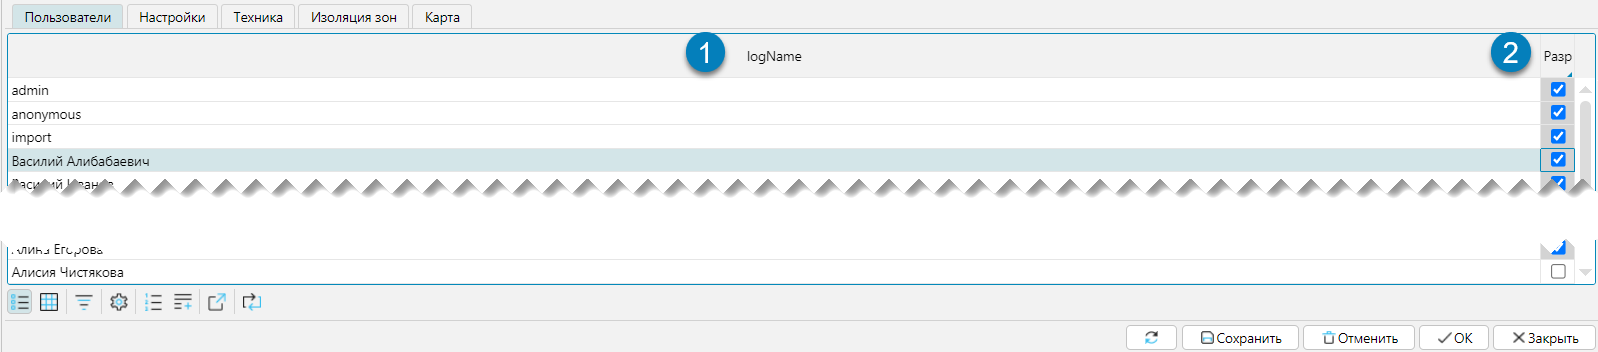
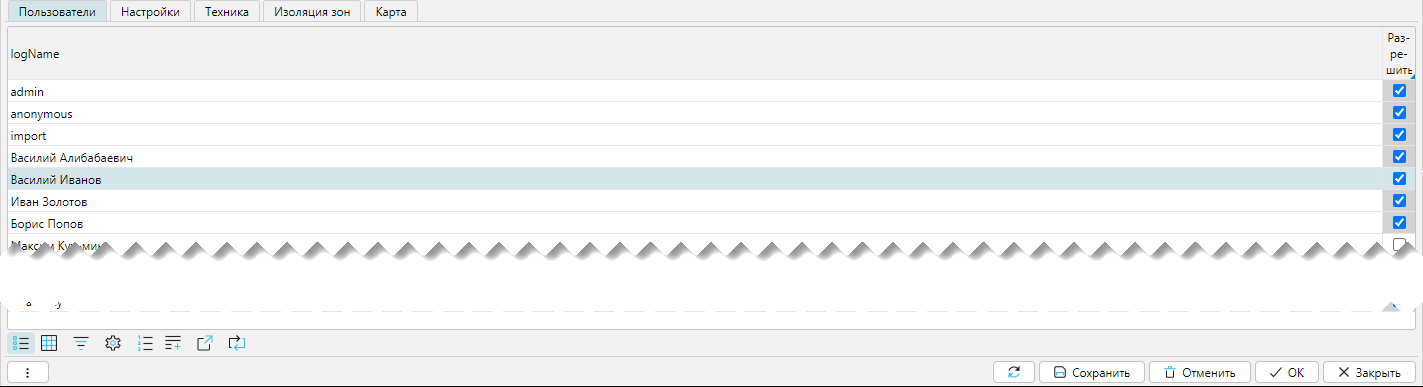
Документация

Changed region(s): [[0.0, 0.0, 1.0, 0.9375], [0.6803, 0.9062, 1.0, 1.0], [0.0, 0.9688, 0.0618, 1.0]]

diff --git a/sidebars.js b/sidebars.js
@@ -34,7 +34,7 @@ module.exports = {
         {
             type: 'category', label: 'Управление топологией', link: {type: 'doc', id: 'topology/topology'},
              items: [
-                 'topology/stocks','topology/segments',
+                 'topology/stocks','topology/segments','topology/topologyeditor',
              ],
         },
         {

diff --git a/docs/topology/stocks.md b/docs/topology/stocks.md
@@ -5,74 +5,81 @@ title: 'Справочник склады'
 Справочник складов — это инструмент, который содержит информацию о всех складах, доступных в системе. Играет ключевую
 роль в управлении складскими операциями и обеспечивает структурированный подход к работе.
 
-Справочник склады доступен из меню **Склад-Справочники-Склады**(рис. 1) или **Справочники-Склады**.<br/>
-Справочник может как импортироваться из внешней системы, так и создаваться и редактироваться в lsFusion WMS.
+Справочник склады доступен из меню **Склад-Справочники-Склады** (рис. 1) или **Справочники-Склады**. Справочник 
+может как импортироваться из внешней системы, так и создаваться и редактироваться в lsFusion WMS.  
 
 ## Отображение справочника
 
 ![](img/stocks1.png)<br/>
-Рис. 1 Форма отображения справочника
+_Рис. 1 Форма отображения справочника_
 
-Справочник представлен на форме с вкладками в виде иерархической структуры (вкладка Дерево, Рис. 1(1)) или списка (
-вкладка Список, Рис. 1(2)).<br/>
+Справочник представлен на форме (Рис. 1) с вкладками:
+- **Дерево** - в виде иерархической структуры 
+- **Список** - в виде списка  
 
-## Редактирование справочника
+
+## Редактирование склада
 
 ![](img/stocks2.png)<br/>
-Рис. 2 Форма редактирования справочника
+_Рис. 2 Форма редактирования склада_
 
-На форме можно выделить общие элементы для редактирования (Рис. 2(1)) и вкладки (Рис. 2(2)), которые являются
-дополнительными параметрами настройки.
-
+Форма содержит основные элементы для редактирования и вкладки, предназначенные для настройки дополнительных параметров:
 - **Название** - название склада
-- **Код** - код склада. Введенное значение будет использоваться, как первый символ(ы) в наименовании ячейки
+- **Код** - код склада. Значение кода используется, как символ(ы) начала кода элементов структуры склада при 
+  построении топологии. Значение должно быть уникальным по отношению ко всем вводимым складам  
 - **Родитель** - родительская категория, на один уровень выше текущей в иерархии
+
 
 ### Вкладка Пользователи
 
 ![](img/stocks3.png)<br/>
-Рис. 3 Вкладка Пользователи
+_Рис. 3 Вкладка Пользователи_
 
-Содержание табличной части отражает всех зарегистрированных пользователей в системе:
-
-1. колонка **logName** - это зарегистрированное имя пользователя (Рис. 3(1))
-2. колонка **Разрешить** - это флаг разрешения для пользователя работать с текущим складом (Рис. 3(2)). Так как склады
-   представляют собой иерархическую структуру, то разрешения данные на уровень выше, не могут быть изменены на текущем
-   уровне.
+Содержание табличной части отражает всех зарегистрированных пользователей в системе. Колонки табличной части:
+- **logName** - зарегистрированное имя пользователя
+- **Разрешить** - флажок устанавливает разрешение пользователю для работы с текущим складом. Так как склады 
+  представляют собой иерархическую структуру, то разрешения данные на уровень выше, не могут быть изменены на 
+  текущем уровне. 
 ***
 
+
 ### Вкладка Настройки
+Вкладка содержит настройки технологических операций
 
 ![](img/stocks4.png)<br/>
-Рис. 4 Вкладка настройки
+_Рис. 4 Вкладка настройки_
 
-Присутствует сильная зависимость от настроек технологических операций на текущем складе.<br/>
-_Содержание раздел находится в разработке_
+Настройки технологических операций:
+- Вид приемки
+- Отгрузка
+- Размещения
+- Перемещения
+- Подбор
 
 [//]: # (todo - требует более детального уточнения, нужны будут потом ссылки на технологические операции Сотрудники_Склады.mp4, 0:50:32)
 ***
 
+
 ### Вкладка Техника
 Вкладка отвечает за закрепление техники за складом, что необходимо для планировании задач
 ![](img/stocks5.png)<br/>
-Рис. 5 Вкладка Техника
+_Рис. 5 Вкладка Техника_
 
-**Приоритет технике** (Рис. 5(1)) означает следующее: 
-
-- если флаг установлен, то при планировании задач в первую очередь распределяются задачи для техники, а затем для
-  сотрудников
-- если флаг не установлен, то при планировании задач в первую очередь распределяются задачи для сотрудников, а затем для
-  техники
-
-Для назначения техники складу используется колонка **Вкл** (Рис. 5(2)). Техника может быть закреплена как
-непосредственно на текущем складе, так и на уровнях выше текущего склада. Для этой цели используется специальный формат
-отображения данных, позволяющий визуально различать варианты закрепления техники (Рис. 5(3), порядок отображения сверху
-вниз):
-- если техника не закреплена, информация об этом отображается неактивным серым цветом 
-- если техника закреплена на уровне выше текущего склада, информация об этом отображается неактивным серым цветом. При
-  этом отменить такое закрепление на уровне текущего склада нельзя
-- если техника закреплена на уровне текущего склада, информация об этом отображается активным черным цветом
+Элементы управления:
+- **Приоритет технике** - флажок отвечает за распределение задач: 
+  - если флаг установлен, то при планировании задач в первую очередь распределяются задачи для техники, а затем для
+    сотрудников
+  - если флаг не установлен, то при планировании задач в первую очередь распределяются задачи для сотрудников, а 
+    затем для техники
+- **Вкл** - колонка отвечает за закрепление техники за складом. Техника может быть закреплена как, непосредственно 
+  на текущем складе, так и на уровнях выше текущего склада. Для этой цели используется специальный формат 
+  отображения данных, позволяющий визуально различать варианты закрепления техники:
+  - если техника не закреплена, информация об этом отображается неактивным серым цветом 
+  - если техника закреплена на уровне выше текущего склада, информация об этом отображается неактивным серым цветом. 
+    При этом отменить такое закрепление на уровне текущего склада нельзя
+  - если техника закреплена на уровне текущего склада, информация об этом отображается активным черным цветом
 ***
+
 
 ### Вкладка Изоляция зон
 Вкладка определяет изолированные зоны
@@ -80,16 +87,16 @@ _Содержание раздел находится в разработке_
 Рис. 6 Вкладка Изоляция зон
 
 Использует алгоритмы нахождения кратчайших путей между изолированными зонами для эффективного формирования задач по
-размещению с учетом неоднородности складских помещений.<br/>
-_Содержание раздела находится в разработке_
+размещению с учетом неоднородности складских помещений.
 
 [//]: # (todo - раздел требует доработки)
 ***
 
+
 ### Вкладка Карта
 Показывает положение объекта (склада)
 ![](img/stocks7.png)<br/>
-Рис. 7 Вкладка Карта
+_Рис. 7 Вкладка Карта_
 
 - **Адрес** - адрес торгового объекта (склада), координата меняется при перемещении объекта
 - **Широта, Долгота** - географические координаты, координата меняется при перемещении объекта
@@ -97,8 +104,8 @@ _Содержание раздела находится в разработке_
   автоматически в точку на карте  
 
 <info>
-**Примечание**
-- Вкладка Карта доступна если подключен модуль **Транспорт**
+**Примечания:**
+- Вкладка Карта доступна, если подключен модуль **Транспорт**
 - Местоположение объекта также показывается на карте в маршрутах
 - Расчет координат по адресу работает, если подключена услуга API Keys Google (платно)
 </info>

diff --git a/docs/topology/segments.md b/docs/topology/segments.md
@@ -2,29 +2,41 @@
 title: 'Справочник сегменты склада'
 ---
 
-Справочник предназначен для определения зон внутри склада, которые необходимы для оптимизации хранения и управления товарами.
+Справочник сегментов задаёт структуру-шаблон построения топологии склада, определяет наименования, состав и 
+взаимосвязи, входящих в структуру элементов.    
 
-Справочник сегменты склада доступен из меню **Склад-Справочники-Сегменты склада** (рис. 1).<br/>
-Справочник может как импортироваться из внешней системы, так и создаваться и редактироваться в lsFusion WMS.
+Справочник сегменты склада доступен из меню **Склад-Справочники-Сегменты склада** (рис. 1).
+
+[//]: # (todo - уточнить насчет импорта из внешней системы, скорее всего что нет)
 
 ## Отображение справочника
 Справочник представлен на форме в виде иерархической структуры (Рис. 1).
 
 ![](img/segments1.png)<br/>
-Рис. 1 Форма отображения справочника
+_Рис. 1 Форма отображения справочника_
 
 
-## Редактирование справочника
+## Редактирование сегмента
 ![](img/segments2.png)<br/>
-Рис. 2 Форма редактирования справочника
+_Рис. 2 Форма редактирования сегмента_
 
 Описание элементов ввода:
-- **Ячейка** - признак, указывающий, что текущий сегмент является базовой (минимальной) единицей складской структуры
-- **Вспомогательная зона** - признак, указывающий, что текущий сегмент не используется непосредственно в складских
-  операциях
+- **Ячейка** - признак, указывающий, что текущий сегмент является базовой (минимальной) единицей складской структуры,
+  которая участвует в планировании при выполнении складских операций и используется для размещения товаров 
+- **Вспомогательный сегмент** - признак, указывающий, что текущий сегмент не участвует в планировании при 
+  выполнении складских операций. Используется для выделения каких то зон (ворота, колонны, подсобные помещения и т.д.),
+  которые не могут служить для размещения товара
 - **Наименование** - наименование сегмента
 - **Родитель** - родительская категория, на один уровень выше текущей в иерархии
-- **Префикс, Количество символов, Постфикс** - это элементы уникального кода сегмента склада, который является составной
-  частью штрихкода адреса хранения
-- **Разворачивать** - если отмечено, то при открытии формы **Топология** элементы данного уровня будут автоматически
-  развернуты в иерархии склада 
+- **Префикс** - символ(ы) с которых начинается уникальный кода сегмента 
+- **Количество символов** - количество символов, отводимых под порядковый номер внутри кода сегмента
+- **Постфикс** - символ(ы) которыми завершается код сегмента 
+- **Разворачивать** - если отмечено, то при открытии формы [**Топология**](topologyeditor.md) элементы данного 
+  уровня будут автоматически развернуты в топологии склада 
+
+<info>
+  **Примечания:**
+  - Система не ограничивает количество уровней в топологии, что позволяет описывать любые структуры
+  - Какой то особой привязки к наименованию сегментов не существует, что делает систему универсальной при выборе 
+    наименований для сегментов от сложившихся в WMS названий до специфичных
+</info>

diff --git a/docs/note/task.md b/docs/note/task.md
@@ -26,8 +26,3 @@ title: 'Задачи и материалы'
 ## Ссылки на материалы
 - [Материалы презентаций клиентам, Redmine](http://support.luxsoft.by/projects/lswms/wiki/%D0%9C%D0%B0%D1%82%D0%B5%D1%80%D0%B8%D0%B0%D0%BB%D1%8B_%D0%BF%D1%80%D0%B5%D0%B7%D0%B5%D0%BD%D1%82%D0%B0%D1%86%D0%B8%D0%B9)
 - [Функционал системы, в тч обсуждения, Redmine](http://support.luxsoft.by/projects/lswms/wiki/%D0%92%D0%B8%D0%B4%D0%B5%D0%BE_%D0%BF%D0%BE_%D1%84%D1%83%D0%BD%D0%BA%D1%86%D0%B8%D0%BE%D0%BD%D0%B0%D0%BB%D1%83)
-- [Расширенная приемка с сортировкой](https://photos.onedrive.com/share/8ABE145E7F833839!s3863dd85efc040f091753d33119d830a?cid=8ABE145E7F833839&resId=8ABE145E7F833839!s3863dd85efc040f091753d33119d830a&ithint=video&e=TO2tci&migratedtospo=true&redeem=aHR0cHM6Ly8xZHJ2Lm1zL3YvYy84YWJlMTQ1ZTdmODMzODM5L0VZWGRZempBN19CQWtYVTlNeEdkZ3dvQnZUVm1PdW5RLVdPMzh3ODZCWmhzNlE_ZT1UTzJ0Y2k)
-- [Презентация Доброном](https://photos.onedrive.com/share/8ABE145E7F833839!s3e09d15774414c5781bd48d931407262?cid=8ABE145E7F833839&resId=8ABE145E7F833839!s3e09d15774414c5781bd48d931407262&ithint=video&e=xEaqpz&migratedtospo=true&redeem=aHR0cHM6Ly8xZHJ2Lm1zL3YvYy84YWJlMTQ1ZTdmODMzODM5L0VWZlJDVDVCZEZkTWdiMUkyVEZBY21JQk9BdU5JUWpiNGQzTkptblE4UVNXR2c_ZT14RWFxcHo)
-- [Инвентаризация товара с ТСД](https://photos.onedrive.com/share/8ABE145E7F833839!sb65e1e162c634bdf9c7d8b581ba8b8a7?cid=8ABE145E7F833839&resId=8ABE145E7F833839!sb65e1e162c634bdf9c7d8b581ba8b8a7&ithint=video&e=VF4qLo&migratedtospo=true&redeem=aHR0cHM6Ly8xZHJ2Lm1zL3YvYy84YWJlMTQ1ZTdmODMzODM5L0VSWWVYclpqTE45TG5IMkxXQnVvdUtjQnFxVHBnNTY2VkQ3d0dnWnowcHRic3c_ZT1WRjRxTG8)
-- [Механизм атрибутов](https://photos.onedrive.com/share/8ABE145E7F833839!se56f9624bdeb483ab4e3f8d0848c9211?cid=8ABE145E7F833839&resId=8ABE145E7F833839!se56f9624bdeb483ab4e3f8d0848c9211&ithint=video&e=kmoJEX&migratedtospo=true&redeem=aHR0cHM6Ly8xZHJ2Lm1zL3YvYy84YWJlMTQ1ZTdmODMzODM5L0VTU1diLVhydlRwSXRPUDQwSVNNa2hFQi1yNmItTTE4NzVvOWF2OWctc2R0NlE_ZT1rbW9KRVg)
-- [Визуализация данных](https://photos.onedrive.com/share/8ABE145E7F833839!se07ca43394a34724bcb276a17c8bf8c1?cid=8ABE145E7F833839&resId=8ABE145E7F833839!se07ca43394a34724bcb276a17c8bf8c1&ithint=video&e=IfPL1g&migratedtospo=true&redeem=aHR0cHM6Ly8xZHJ2Lm1zL3YvYy84YWJlMTQ1ZTdmODMzODM5L0VUT2tmT0NqbENSSHZMSjJvWHlMLU1FQmxZMnFVazFNX3k0RnlaQnFLNXNpNVE_ZT1JZlBMMWc)

diff --git a/docs/topology/topology.md b/docs/topology/topology.md
@@ -2,9 +2,11 @@
 title: 'Топология'
 ---
 
-Топология в контексте WMS — это структура и организация складского пространства, которая описывает расположение зон,
-ячеек, стеллажей и других элементов склада. Она помогает визуализировать и управлять складскими процессами, обеспечивая
-оптимальное использование пространства и ресурсов. Текущий раздел описывает инструменты топологии:
+Топология в контексте WMS — это структура и организация складского пространства, которая описывает расположение 
+элементов склада (зон, рядов, уровней, ячеек, ..). Она помогает визуализировать и управлять складскими процессами, 
+обеспечивая оптимальное использование пространства и ресурсов. Текущий раздел описывает инструменты топологии:
 
 - [Справочник складов](stocks.md)
 - [Справочник сегментов склада](segments.md)
+- [Топология](topologyeditor.md)
+

diff --git a/docs/masterdata/items.md b/docs/masterdata/items.md
@@ -91,7 +91,7 @@ title: 'Справочник товаров'
 оценки, будут предлагаться наиболее быстро-доступные места хранения, а для товаров, пользующихся наименьшим спросом,
 будут предлагаться менее доступные места хранения.
 
-- **ABC** - анализ оценка эффективности спроса товаров и их реализации
+- **ABC** - анализ оценки эффективности спроса товаров и их реализации
 - **FMR** - анализ частоты обращения к товарам
 - **XYZ** - анализ спроса на товары, на которые влияют внешние факторы: сезонность, рекламные кампании и т.д.
 
